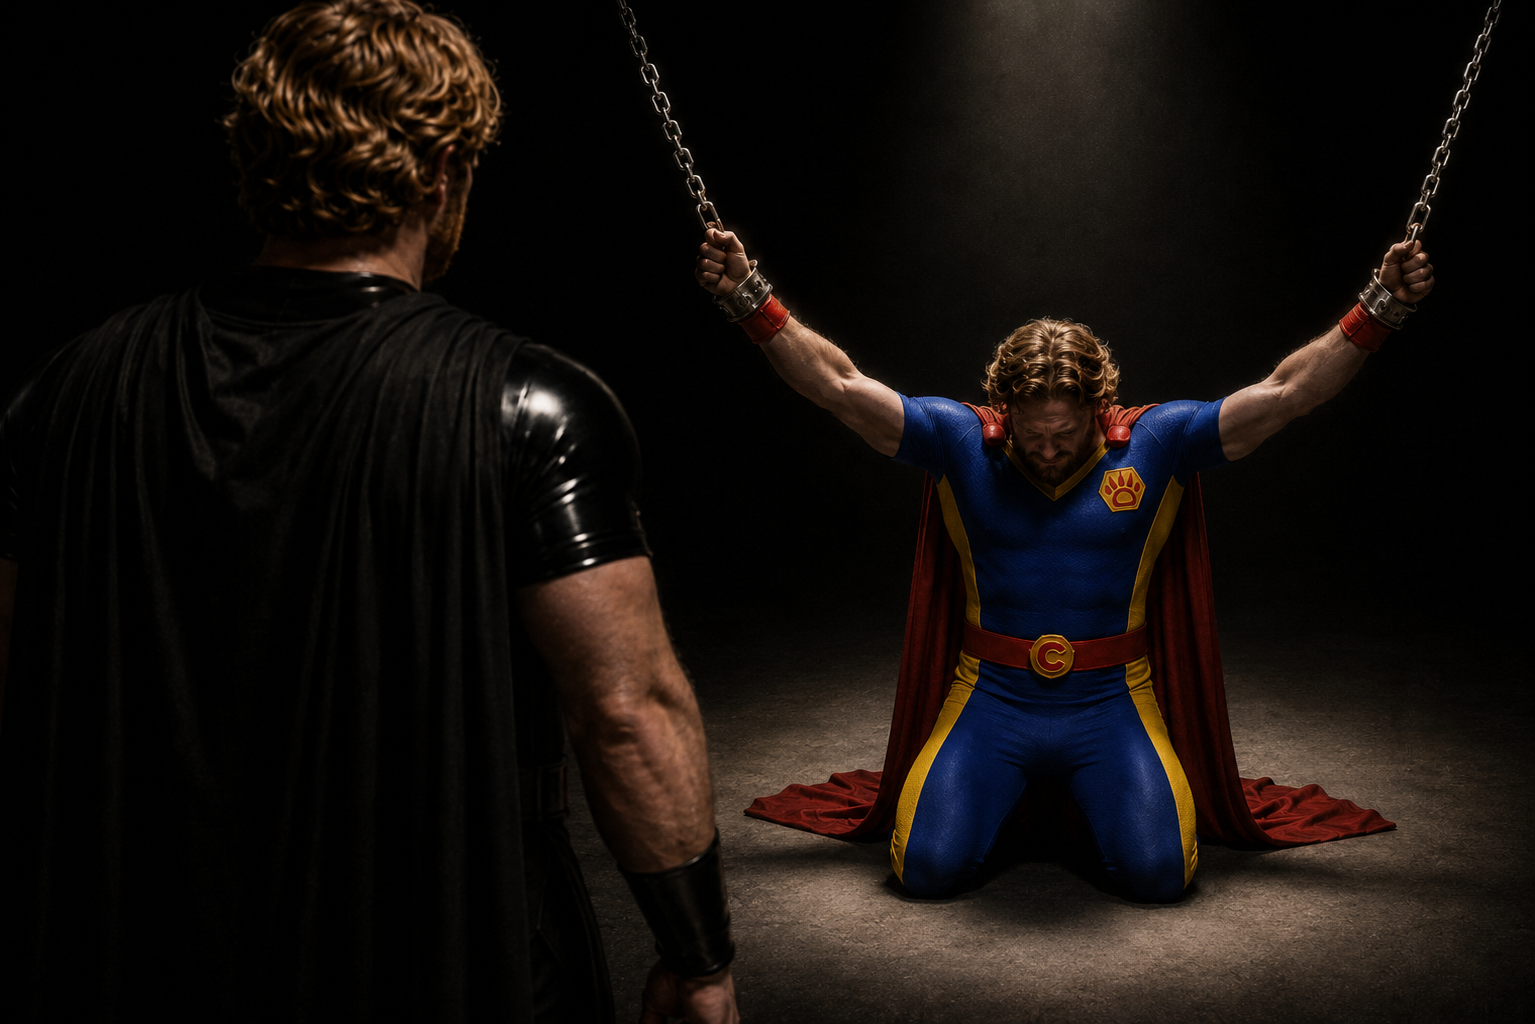
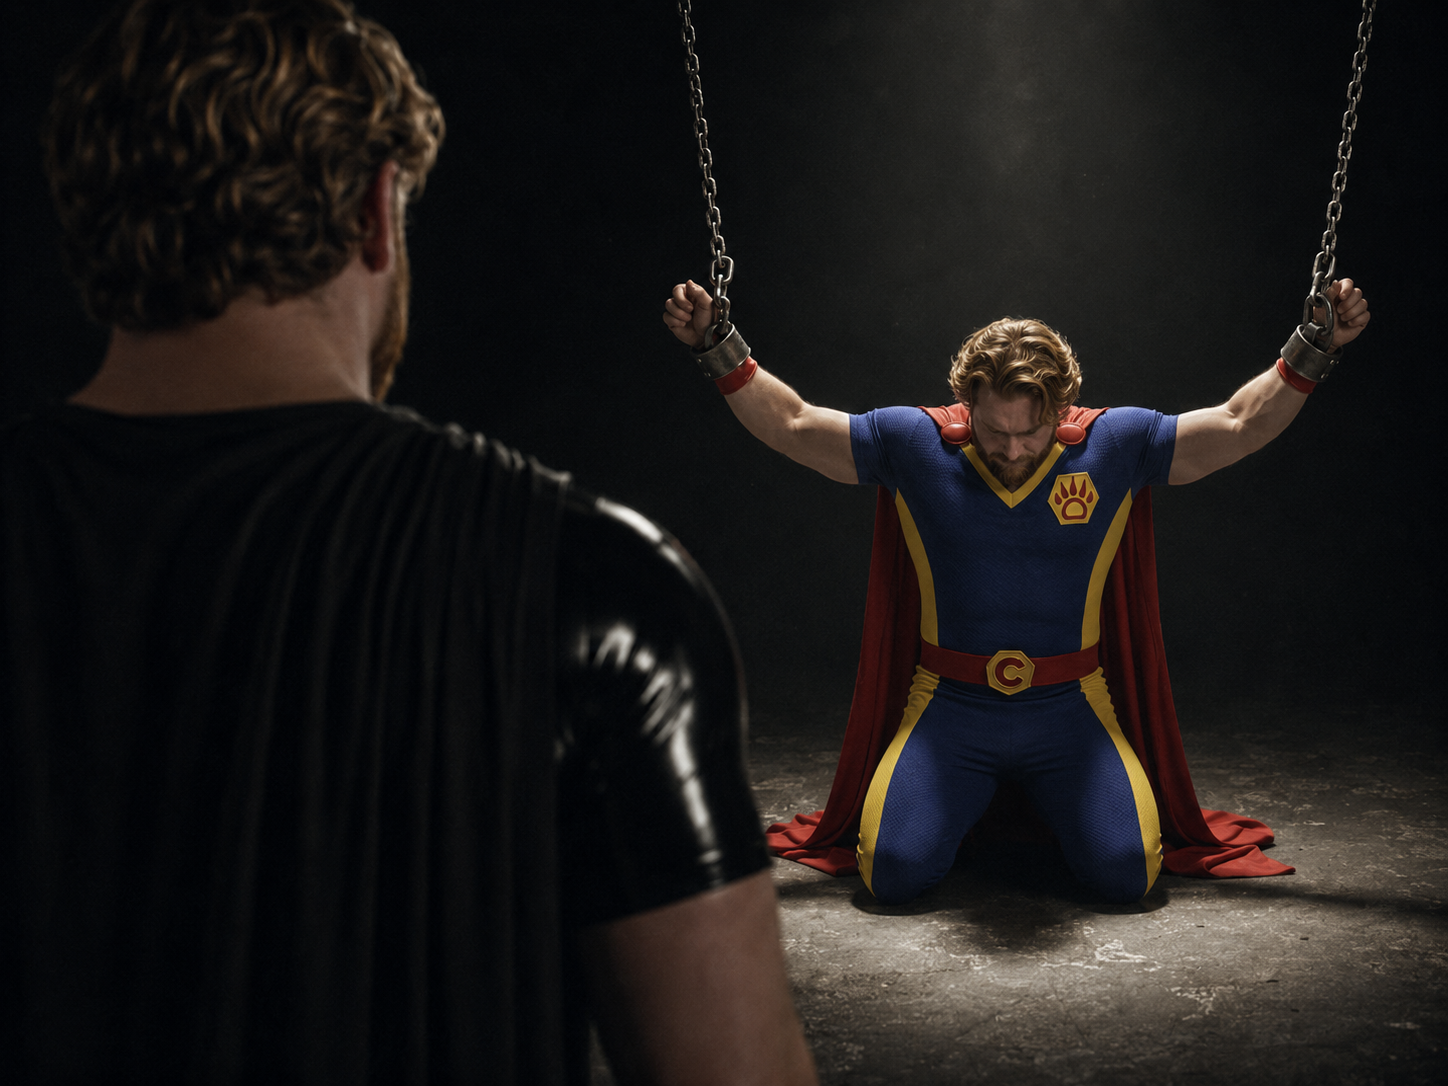
Added more images to ch17

diff --git a/stories/ch17-draft.md b/stories/ch17-draft.md
@@ -116,6 +116,8 @@ The chained Nick strained against the cuffs until the links scraped taut, then l
 
 The entity’s jaw tightened as it stepped closer, its boots making no sound against the empty void. “They were dragging us down, just like you are. You keep talking about protecting people, but what did that ever give us? A costume, a few promises, and another life built around everyone else. Mike only saw the Nick he already knew. Master saw everything we could become.” Its violet eyes narrowed. “And the moment that drone reached inside us, there you were again, filling our head with Mike and guilt, trying to pull us back into the life Master freed us from.” It stopped over the chained figure, looking down at him with cold certainty. “You aren’t the real Nick anymore. You’re the crack that drone found inside us, and I won’t let anything pry it open again.”
 
+[![](/website/assets/images/ch17/008.png)](/website/assets/images/ch17/008.png)
+
 The chained host did not argue or yell. He simply looked up at the massive, rubber-clad form standing over him, his lips curving into a quiet, deliberate smile filled with pure, unadulterated pity.
 
 "You really think you're special, don't you?" Nick whispered, his arms held wide, the smile lingering. "You think you're his most important cub. But you're just a fool in a shiny suit. You're a goon on a slightly longer leash, and you don't have the slightest clue what true love or appreciation actually feel like."
@@ -129,6 +131,8 @@ The word struck the deepest, most heavily guarded circuit in the suit.
 "Enough!" the entity shouted.
 
 The entity commanded the suit to tighten, slamming the internal locks shut. The chains snapped outward, dragging the host backward by his wrists into the subconscious tar. His pitying smile vanished into the void as the light holding them went out.
+
+[![](/website/assets/images/ch17/009.png)](/website/assets/images/ch17/009.png)
 
 The dark broke instantly. The warehouse snapped back around the entity. It stood once more in Nick's body exactly where Bill had left him, chest heaving and hands balled into tight fists against the slick rubber of his thighs. The room was perfectly silent. The locks were back in place.
 
